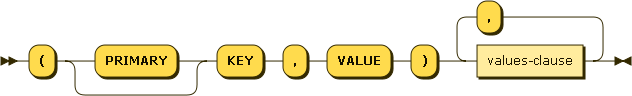
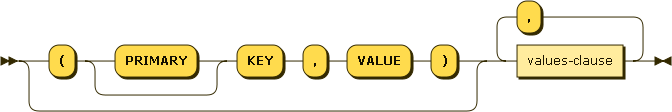
Refine iNSERT / UPDATE syntax.

Changed region(s): [[0.0, 0.0, 1.0, 1.0]]

diff --git a/docs/n1ql-dml.md b/docs/n1ql-dml.md
@@ -2,7 +2,7 @@
 
 + Status: DRAFT/PROPOSAL
 + Latest: [n1ql-dml](https://github.com/couchbaselabs/query/blob/master/docs/n1ql-dml.md)
-+ Modified: 2014-10-19
++ Modified: 2014-12-15
 
 ## Introduction
 
@@ -283,6 +283,8 @@ Generator](http://railroad.my28msec.com/) ![](diagram/.png)
     * Rename BUCKET to KEYSPACE
 * 2014-10-19 - INSERT / UPSERT syntax
     * Allow keys to exist outside of values
+* 2014-12-15 - INSERT / UPSERT syntax
+    * Refine INSERT / UPSERT syntax
 
 ### Open Issues
 
